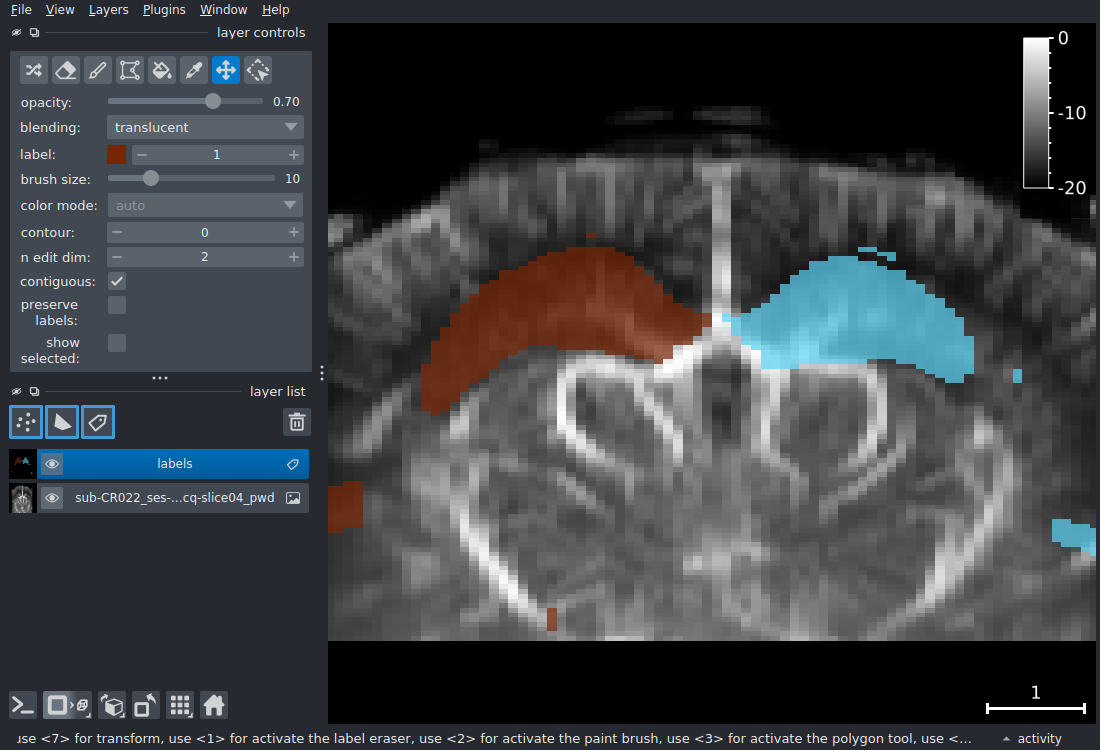
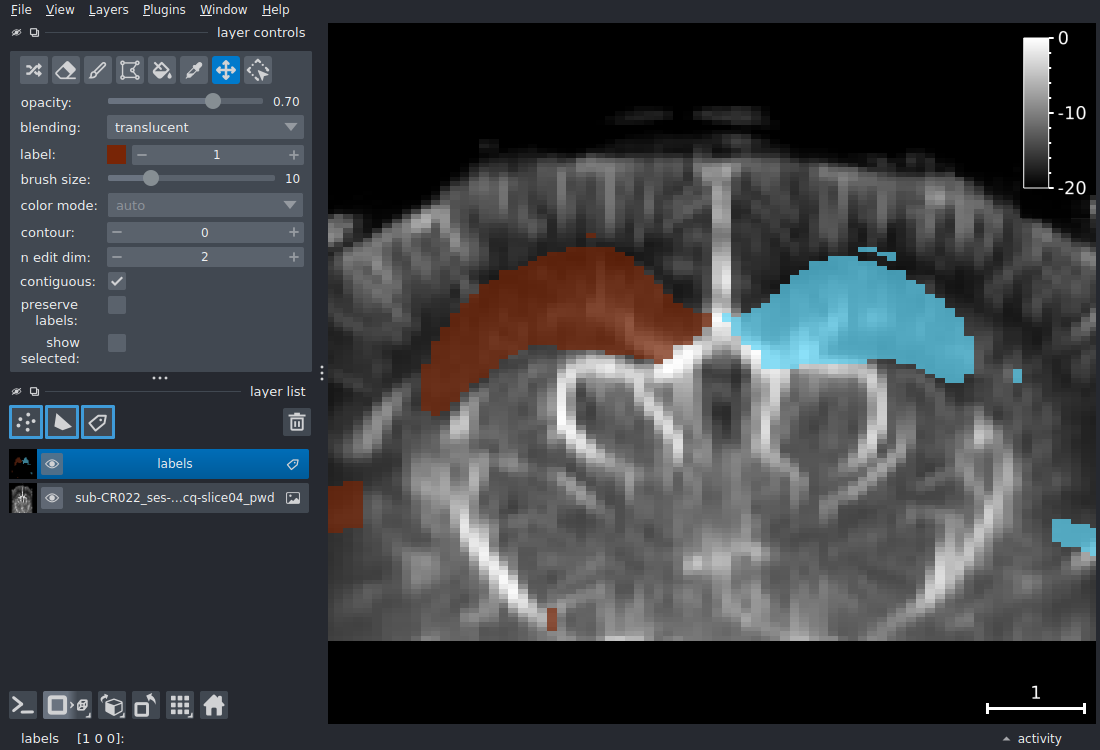
deploy: confusius-tools/confusius@079c85988222d0ea7ad6c7256ce0722dadea04ba

Changed region(s): [[0.0, 0.9813, 0.8655, 1.0]]

diff --git a/pr-preview/pr-321/api/signal/index.html b/pr-preview/pr-321/api/signal/index.html
@@ -3379,7 +3379,7 @@ coordinates.</p>
 </span><span id="__span-0-9"><a id="__codelineno-0-9" name="__codelineno-0-9" href="#__codelineno-0-9"></a>    <span class="n"><a class="autorefs autorefs-internal" title="&lt;b&gt;&lt;code&gt;filter_method&lt;/code&gt;&lt;/b&gt;" href="./#confusius.signal.clean(filter_method)">filter_method</a></span><span class="p">:</span> <span class="n"><a class="autorefs autorefs-external" title="typing.Literal" href="https://docs.python.org/3/library/typing.html#typing.Literal">Literal</a></span><span class="p">[</span>
 </span><span id="__span-0-10"><a id="__codelineno-0-10" name="__codelineno-0-10" href="#__codelineno-0-10"></a>        <span class="s2">&quot;butterworth&quot;</span><span class="p">,</span> <span class="s2">&quot;cosine&quot;</span>
 </span><span id="__span-0-11"><a id="__codelineno-0-11" name="__codelineno-0-11" href="#__codelineno-0-11"></a>    <span class="p">]</span> <span class="o">=</span> <span class="s2">&quot;butterworth&quot;</span><span class="p">,</span>
-</span><span id="__span-0-12"><a id="__codelineno-0-12" name="__codelineno-0-12" href="#__codelineno-0-12"></a>    <span class="n"><a class="autorefs autorefs-internal" title="&lt;b&gt;&lt;code&gt;filter_butterworth_kwargs&lt;/code&gt;&lt;/b&gt;" href="./#confusius.signal.clean(filter_butterworth_kwargs)">filter_butterworth_kwargs</a></span><span class="p">:</span> <span class="n"><a class="autorefs autorefs-external" href="https://docs.python.org/3/library/stdtypes.html#dict">dict</a></span> <span class="o">|</span> <span class="kc">None</span> <span class="o">=</span> <span class="kc">None</span><span class="p">,</span>
+</span><span id="__span-0-12"><a id="__codelineno-0-12" name="__codelineno-0-12" href="#__codelineno-0-12"></a>    <span class="n"><a class="autorefs autorefs-internal" title="&lt;b&gt;&lt;code&gt;filter_kwargs&lt;/code&gt;&lt;/b&gt;" href="./#confusius.signal.clean(filter_kwargs)">filter_kwargs</a></span><span class="p">:</span> <span class="n"><a class="autorefs autorefs-external" href="https://docs.python.org/3/library/stdtypes.html#dict">dict</a></span> <span class="o">|</span> <span class="kc">None</span> <span class="o">=</span> <span class="kc">None</span><span class="p">,</span>
 </span><span id="__span-0-13"><a id="__codelineno-0-13" name="__codelineno-0-13" href="#__codelineno-0-13"></a>    <span class="n"><a class="autorefs autorefs-internal" title="&lt;b&gt;&lt;code&gt;confounds&lt;/code&gt;&lt;/b&gt;" href="./#confusius.signal.clean(confounds)">confounds</a></span><span class="p">:</span> <span class="n"><a class="autorefs autorefs-external" title="xarray.DataArray" href="https://docs.xarray.dev/en/stable/generated/xarray.DataArray.html#xarray.DataArray">DataArray</a></span> <span class="o">|</span> <span class="kc">None</span> <span class="o">=</span> <span class="kc">None</span><span class="p">,</span>
 </span><span id="__span-0-14"><a id="__codelineno-0-14" name="__codelineno-0-14" href="#__codelineno-0-14"></a>    <span class="n"><a class="autorefs autorefs-internal" title="&lt;b&gt;&lt;code&gt;standardize_confounds&lt;/code&gt;&lt;/b&gt;" href="./#confusius.signal.clean(standardize_confounds)">standardize_confounds</a></span><span class="p">:</span> <span class="n"><a class="autorefs autorefs-external" href="https://docs.python.org/3/library/functions.html#bool">bool</a></span> <span class="o">=</span> <span class="kc">True</span><span class="p">,</span>
 </span><span id="__span-0-15"><a id="__codelineno-0-15" name="__codelineno-0-15" href="#__codelineno-0-15"></a>    <span class="n"><a class="autorefs autorefs-internal" title="&lt;b&gt;&lt;code&gt;ensure_finite&lt;/code&gt;&lt;/b&gt;" href="./#confusius.signal.clean(ensure_finite)">ensure_finite</a></span><span class="p">:</span> <span class="n"><a class="autorefs autorefs-external" href="https://docs.python.org/3/library/functions.html#bool">bool</a></span> <span class="o">=</span> <span class="kc">False</span><span class="p">,</span>
@@ -3485,14 +3485,15 @@ discrete-cosine drift basis as the <abbr title="General Linear Model">GLM</abbr>
           </div>
         </li>
         <li class="doc-section-item field-body">
-<h4 id="confusius.signal.clean(filter_butterworth_kwargs)" class="doc doc-heading doc-heading-parameter">              <b><code>filter_butterworth_kwargs</code></b>
-<a href="#confusius.signal.clean(filter_butterworth_kwargs)" class="headerlink" title="Permanent link">&para;</a></h4>              (<code><a class="autorefs autorefs-external" href="https://docs.python.org/3/library/stdtypes.html#dict">dict</a></code>, default:
+<h4 id="confusius.signal.clean(filter_kwargs)" class="doc doc-heading doc-heading-parameter">              <b><code>filter_kwargs</code></b>
+<a href="#confusius.signal.clean(filter_kwargs)" class="headerlink" title="Permanent link">&para;</a></h4>              (<code><a class="autorefs autorefs-external" href="https://docs.python.org/3/library/stdtypes.html#dict">dict</a></code>, default:
                   <code>None</code>
 )
           –
           <div class="doc-md-description">
-            <p>Extra keyword arguments passed to <code>confusius.signal.filter_butterworth</code> when
-<code>filter_method="butterworth"</code>.</p>
+            <p>Extra keyword arguments passed to the selected filtering function. This means
+<code>confusius.signal.filter_butterworth</code> when <code>filter_method="butterworth"</code>
+and <code>confusius.signal.filter_cosine</code> when <code>filter_method="cosine"</code>.</p>
           </div>
         </li>
         <li class="doc-section-item field-body">